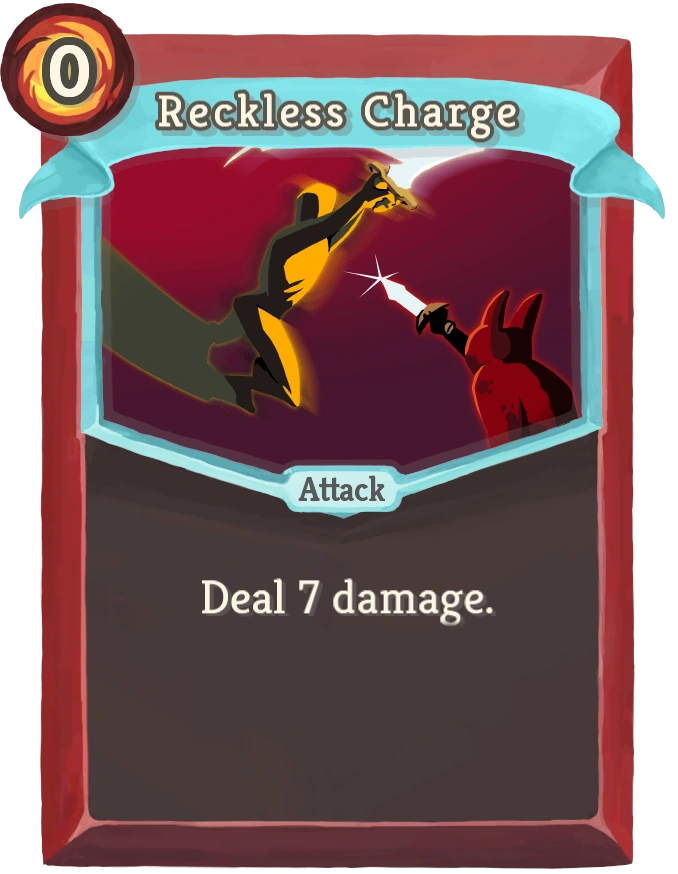
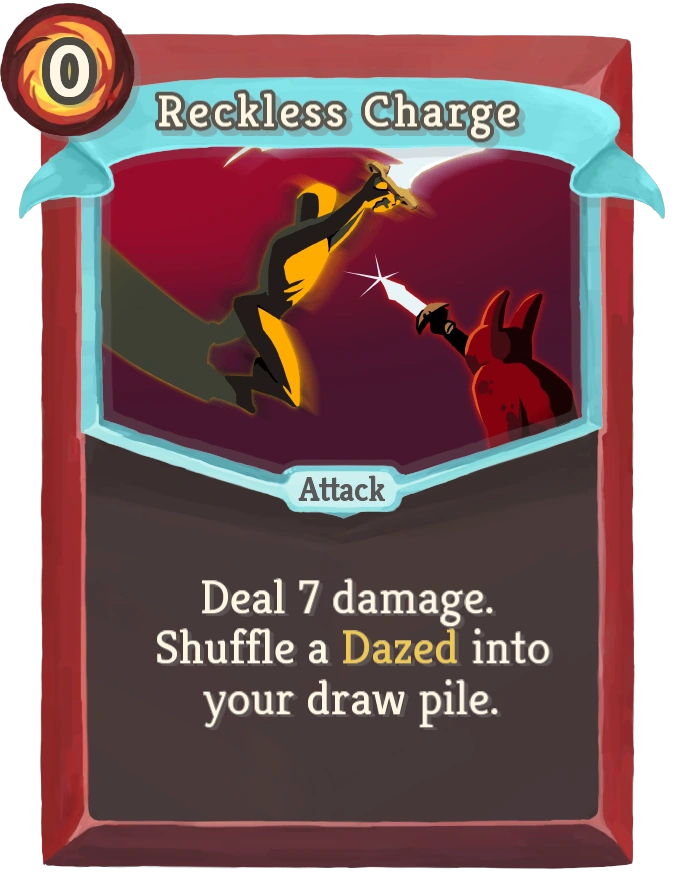
fixed #78, fixed #79, fixed #83

Changed region(s): [[0.2168, 0.7105, 0.8363, 0.8341]]

diff --git a/src/main/java/de/bundeswehr/auf/slaythespire/model/card/ironclad/attack/rare/ImmolateCard.java b/src/main/java/de/bundeswehr/auf/slaythespire/model/card/ironclad/attack/rare/ImmolateCard.java
@@ -1,7 +1,9 @@
 package de.bundeswehr.auf.slaythespire.model.card.ironclad.attack.rare;
 
 import de.bundeswehr.auf.slaythespire.helper.PathAssistent;
+import de.bundeswehr.auf.slaythespire.model.battle.BattleDeck;
 import de.bundeswehr.auf.slaythespire.model.battle.GameContext;
+import de.bundeswehr.auf.slaythespire.model.card.status.BurnCard;
 import de.bundeswehr.auf.slaythespire.model.card.structure.AttackCard;
 import de.bundeswehr.auf.slaythespire.model.card.structure.CardGrave;
 import de.bundeswehr.auf.slaythespire.model.card.structure.CardRarity;
@@ -21,7 +23,7 @@ public class ImmolateCard extends AttackCard {
      * Constructor Immolate card.
      */
     public ImmolateCard() {
-        super("Immolate", "Deal 21 damage to ALL enemies.", 2, 21, CardRarity.RARE, CardGrave.DISCARD);
+        super("Immolate", "Deal 21 damage to ALL enemies. Add a Burn to your discard pile.", 2, 21, CardRarity.RARE, CardGrave.DISCARD);
         setImagePath(new PathAssistent().toPath(this));
     }
 
@@ -34,6 +36,9 @@ public class ImmolateCard extends AttackCard {
         }
 
         player.decreaseCurrentEnergy(getCost());
+
+        BattleDeck battleDeck = gameContext.getBattleDeck();
+        battleDeck.addToDiscardPile(new BurnCard());
     }
 
 }

diff --git a/src/main/java/de/bundeswehr/auf/slaythespire/model/card/ironclad/attack/uncommon/RecklessChargeCard.java b/src/main/java/de/bundeswehr/auf/slaythespire/model/card/ironclad/attack/uncommon/RecklessChargeCard.java
@@ -1,6 +1,9 @@
 package de.bundeswehr.auf.slaythespire.model.card.ironclad.attack.uncommon;
 
 import de.bundeswehr.auf.slaythespire.helper.PathAssistent;
+import de.bundeswehr.auf.slaythespire.model.battle.BattleDeck;
+import de.bundeswehr.auf.slaythespire.model.battle.GameContext;
+import de.bundeswehr.auf.slaythespire.model.card.status.DazedCard;
 import de.bundeswehr.auf.slaythespire.model.card.structure.AttackCard;
 import de.bundeswehr.auf.slaythespire.model.card.structure.CardGrave;
 import de.bundeswehr.auf.slaythespire.model.card.structure.CardRarity;
@@ -16,8 +19,15 @@ public class RecklessChargeCard extends AttackCard {
      * Constructor Reckless charge card.
      */
     public RecklessChargeCard() {
-        super("Reckless Charge", "Deal 7 damage.", 0, 7, CardRarity.UNCOMMON, CardGrave.DISCARD);
+        super("Reckless Charge", "Deal 7 damage. Shuffle a Dazed into your draw pile.", 0, 7, CardRarity.UNCOMMON, CardGrave.DISCARD);
         setImagePath(new PathAssistent().toPath(this));
     }
 
+    @Override
+    public void play(GameContext gameContext) {
+        super.play(gameContext);
+
+        BattleDeck battleDeck = gameContext.getBattleDeck();
+        battleDeck.shuffleInDrawPile(new DazedCard());
+    }
 }

diff --git a/src/main/java/de/bundeswehr/auf/slaythespire/model/card/ironclad/attack/common/WildStrikeCard.java b/src/main/java/de/bundeswehr/auf/slaythespire/model/card/ironclad/attack/common/WildStrikeCard.java
@@ -1,6 +1,9 @@
 package de.bundeswehr.auf.slaythespire.model.card.ironclad.attack.common;
 
 import de.bundeswehr.auf.slaythespire.helper.PathAssistent;
+import de.bundeswehr.auf.slaythespire.model.battle.BattleDeck;
+import de.bundeswehr.auf.slaythespire.model.battle.GameContext;
+import de.bundeswehr.auf.slaythespire.model.card.status.WoundCard;
 import de.bundeswehr.auf.slaythespire.model.card.structure.AttackCard;
 import de.bundeswehr.auf.slaythespire.model.card.structure.CardGrave;
 import de.bundeswehr.auf.slaythespire.model.card.structure.CardRarity;
@@ -16,8 +19,15 @@ public class WildStrikeCard extends AttackCard {
      * Constructor Wild strike card.
      */
     public WildStrikeCard() {
-        super("Wild Strike", "Deal 12 damage.", 1, 12, CardRarity.COMMON, CardGrave.DISCARD);
+        super("Wild Strike", "Deal 12 damage. Shuffle a Wound into your draw pile.", 1, 12, CardRarity.COMMON, CardGrave.DISCARD);
         setImagePath(new PathAssistent().toPath(this));
     }
 
+    @Override
+    public void play(GameContext gameContext) {
+        super.play(gameContext);
+
+        BattleDeck battleDeck = gameContext.getBattleDeck();
+        battleDeck.shuffleInDrawPile(new WoundCard());
+    }
 }

diff --git a/src/main/java/de/bundeswehr/auf/slaythespire/model/battle/BattleDeck.java b/src/main/java/de/bundeswehr/auf/slaythespire/model/battle/BattleDeck.java
@@ -52,6 +52,10 @@ public class BattleDeck implements CardEventListener {
         battleDeckListener.onCardFill();
     }
 
+    public void addToDiscardPile(Card card) {
+        discardPile.add(card);
+    }
+
     public void addTriggeredCard(TriggeredCard card) {
         triggeredCards.add(card);
     }
@@ -231,6 +235,10 @@ public class BattleDeck implements CardEventListener {
 
     public void setBattleDeckListener(BattleDeckListener battleDeckListener) {
         this.battleDeckListener = battleDeckListener;
+    }
+
+    public void shuffleInDrawPile(Card card) {
+        deck.add(rnd.nextInt(deck.size() + 1), card);
     }
 
     @Override
